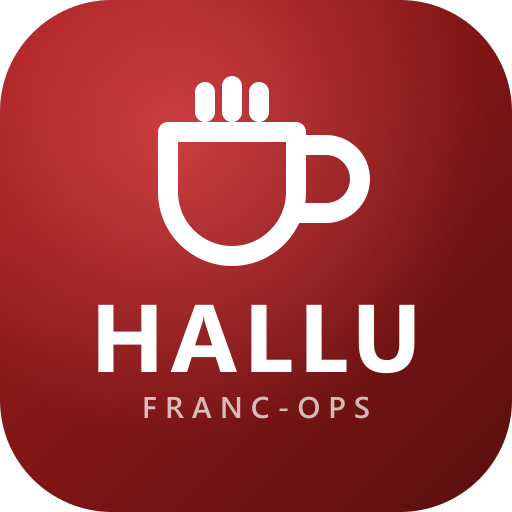
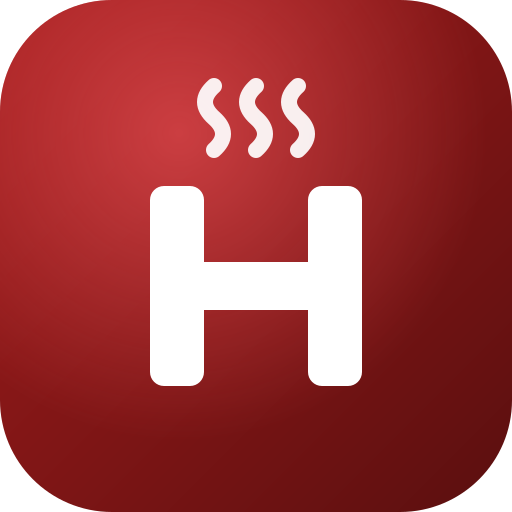
feat: brand A+B — monogram H jadi ikon app, wordmark HALL+cangkir-U di login & header

Changed region(s): [[0.1875, 0.125, 0.8125, 0.8438]]

diff --git a/src/components/Brand.tsx b/src/components/Brand.tsx
@@ -1,0 +1,35 @@
+// Wordmark "HALL + cangkir-U" (Konsep A) dan monogram H (Konsep B).
+// Keduanya pakai currentColor — atur warna via text color, ukuran via className (height).
+
+export function Logo({ className }: { className?: string }) {
+  return (
+    <svg viewBox="0 0 196 64" className={className} role="img" aria-label="Hallu" xmlns="http://www.w3.org/2000/svg">
+      <text x="0" y="56" fontFamily="var(--font-geist-sans), system-ui, sans-serif" fontSize="60" fontWeight="800" letterSpacing="-1" fill="currentColor">HALL</text>
+      <g fill="none" stroke="currentColor" strokeWidth="12" strokeLinecap="round" strokeLinejoin="round">
+        <path d="M140 18 L140 44 Q140 56 156 56 Q172 56 172 44 L172 18" />
+        <path d="M172 26 Q186 35 172 47" strokeWidth="9" />
+      </g>
+      <g fill="none" stroke="currentColor" strokeWidth="5" strokeLinecap="round" opacity="0.9">
+        <path d="M150 9 q5 -5 0 -10" />
+        <path d="M162 9 q5 -5 0 -10" />
+      </g>
+    </svg>
+  )
+}
+
+export function Monogram({ className }: { className?: string }) {
+  return (
+    <svg viewBox="0 0 48 48" className={className} role="img" aria-label="Hallu" xmlns="http://www.w3.org/2000/svg">
+      <g fill="none" stroke="currentColor" strokeWidth="3" strokeLinecap="round" opacity="0.9">
+        <path d="M17 14 q4 -5 0 -9" />
+        <path d="M24 14 q4 -5 0 -9" />
+        <path d="M31 14 q4 -5 0 -9" />
+      </g>
+      <g fill="currentColor">
+        <rect x="13" y="18" width="7" height="22" rx="2" />
+        <rect x="28" y="18" width="7" height="22" rx="2" />
+        <rect x="13" y="26" width="22" height="7" rx="2" />
+      </g>
+    </svg>
+  )
+}

diff --git a/src/app/login/page.tsx b/src/app/login/page.tsx
@@ -3,7 +3,7 @@
 import { useState } from 'react'
 import { createClient } from '@/lib/supabase'
 import { useRouter } from 'next/navigation'
-import { CoffeeIcon } from '@/components/Icons'
+import { Logo } from '@/components/Brand'
 
 export default function LoginPage() {
   const [email, setEmail] = useState('')
@@ -31,11 +31,9 @@ export default function LoginPage() {
     <div className="min-h-screen flex flex-col">
       {/* Top brand panel */}
       <div className="brand-header text-white px-6 pt-16 pb-24 text-center">
-        <div className="inline-flex w-16 h-16 rounded-2xl bg-white/15 backdrop-blur items-center justify-center mb-4 ring-1 ring-white/20">
-          <CoffeeIcon width={30} height={30} />
-        </div>
-        <h1 className="text-2xl font-bold tracking-tight">Hallu Franc-Ops</h1>
-        <p className="text-sm text-white/70 mt-1">Pantau outlet franchise kamu, di mana saja</p>
+        <Logo className="h-14 w-auto mx-auto text-white" />
+        <p className="text-[11px] tracking-[0.4em] text-white/60 mt-3">FRANC-OPS</p>
+        <p className="text-sm text-white/70 mt-3">Pantau outlet franchise kamu, di mana saja</p>
       </div>
 
       {/* Card overlapping */}

diff --git a/src/app/kasir/page.tsx b/src/app/kasir/page.tsx
@@ -5,6 +5,7 @@ import { createClient } from '@/lib/supabase'
 import { formatRupiah } from '@/lib/utils'
 import type { MenuItem, Outlet } from '@/types'
 import { CoffeeIcon, ReceiptIcon, LogoutIcon, PlusIcon, CoinsIcon } from '@/components/Icons'
+import { Monogram } from '@/components/Brand'
 
 interface CartItem extends MenuItem {
   qty: number
@@ -101,7 +102,7 @@ export default function KasirPage() {
         <div className="flex items-center justify-between">
           <div className="flex items-center gap-3">
             <div className="w-9 h-9 rounded-xl bg-white/15 flex items-center justify-center ring-1 ring-white/20">
-              <CoffeeIcon width={18} height={18} />
+              <Monogram className="w-5 h-5 text-white" />
             </div>
             <div>
               <p className="text-[11px] uppercase tracking-wider text-white/60">Kasir · {outlet?.name || 'Belum di-assign'}</p>

diff --git a/src/app/mitra/page.tsx b/src/app/mitra/page.tsx
@@ -5,6 +5,7 @@ import LogoutButton from '@/components/LogoutButton'
 import StatCard from '@/components/StatCard'
 import PeriodFilter from '@/components/PeriodFilter'
 import { WalletIcon, CoinsIcon, TrendIcon, StoreIcon, ChevronRightIcon } from '@/components/Icons'
+import { Monogram } from '@/components/Brand'
 
 export default async function MitraDashboard({ searchParams }: { searchParams: Promise<{ period?: string }> }) {
   const supabase = await createClient()
@@ -59,7 +60,7 @@ export default async function MitraDashboard({ searchParams }: { searchParams: P
         <div className="max-w-xl mx-auto flex items-center justify-between">
           <div className="flex items-center gap-3">
             <div className="w-10 h-10 rounded-xl bg-white/15 flex items-center justify-center ring-1 ring-white/20">
-              <StoreIcon width={20} height={20} />
+              <Monogram className="w-6 h-6 text-white" />
             </div>
             <div>
               <p className="text-[11px] uppercase tracking-wider text-white/60">Mitra · Hallu</p>

diff --git a/src/app/owner/page.tsx b/src/app/owner/page.tsx
@@ -5,6 +5,7 @@ import LogoutButton from '@/components/LogoutButton'
 import StatCard from '@/components/StatCard'
 import PeriodFilter from '@/components/PeriodFilter'
 import { WalletIcon, CoinsIcon, TrendIcon, StoreIcon, MenuIcon, UsersIcon, PlusIcon, ChevronRightIcon } from '@/components/Icons'
+import { Monogram } from '@/components/Brand'
 
 export default async function OwnerDashboard({ searchParams }: { searchParams: Promise<{ period?: string }> }) {
   const supabase = await createClient()
@@ -54,7 +55,7 @@ export default async function OwnerDashboard({ searchParams }: { searchParams: P
         <div className="max-w-4xl mx-auto flex items-center justify-between">
           <div className="flex items-center gap-3">
             <div className="w-10 h-10 rounded-xl bg-white/15 flex items-center justify-center ring-1 ring-white/20">
-              <StoreIcon width={20} height={20} />
+              <Monogram className="w-6 h-6 text-white" />
             </div>
             <div>
               <p className="text-[11px] uppercase tracking-wider text-white/60">Owner · Hallu</p>